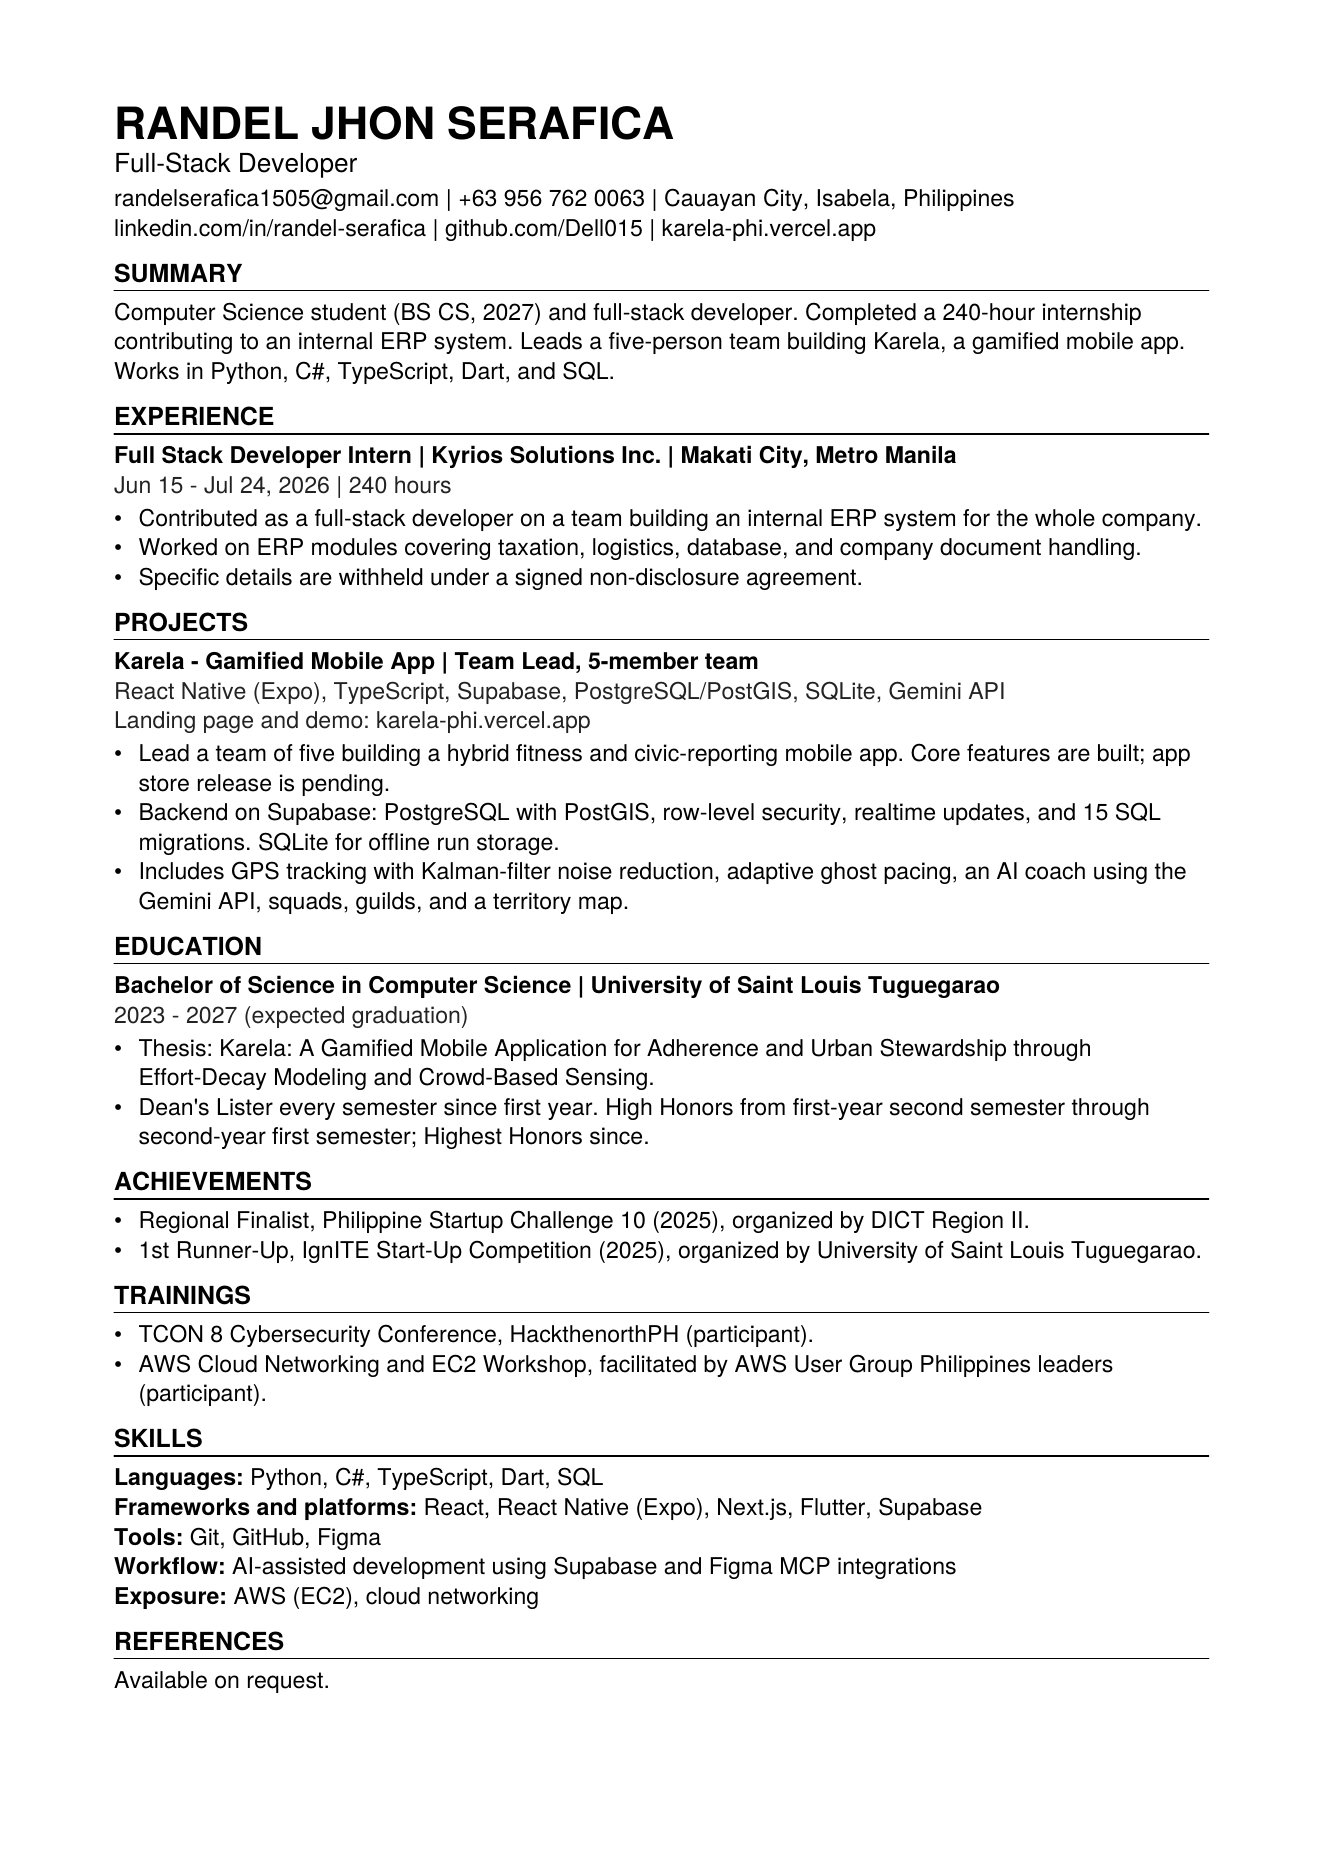
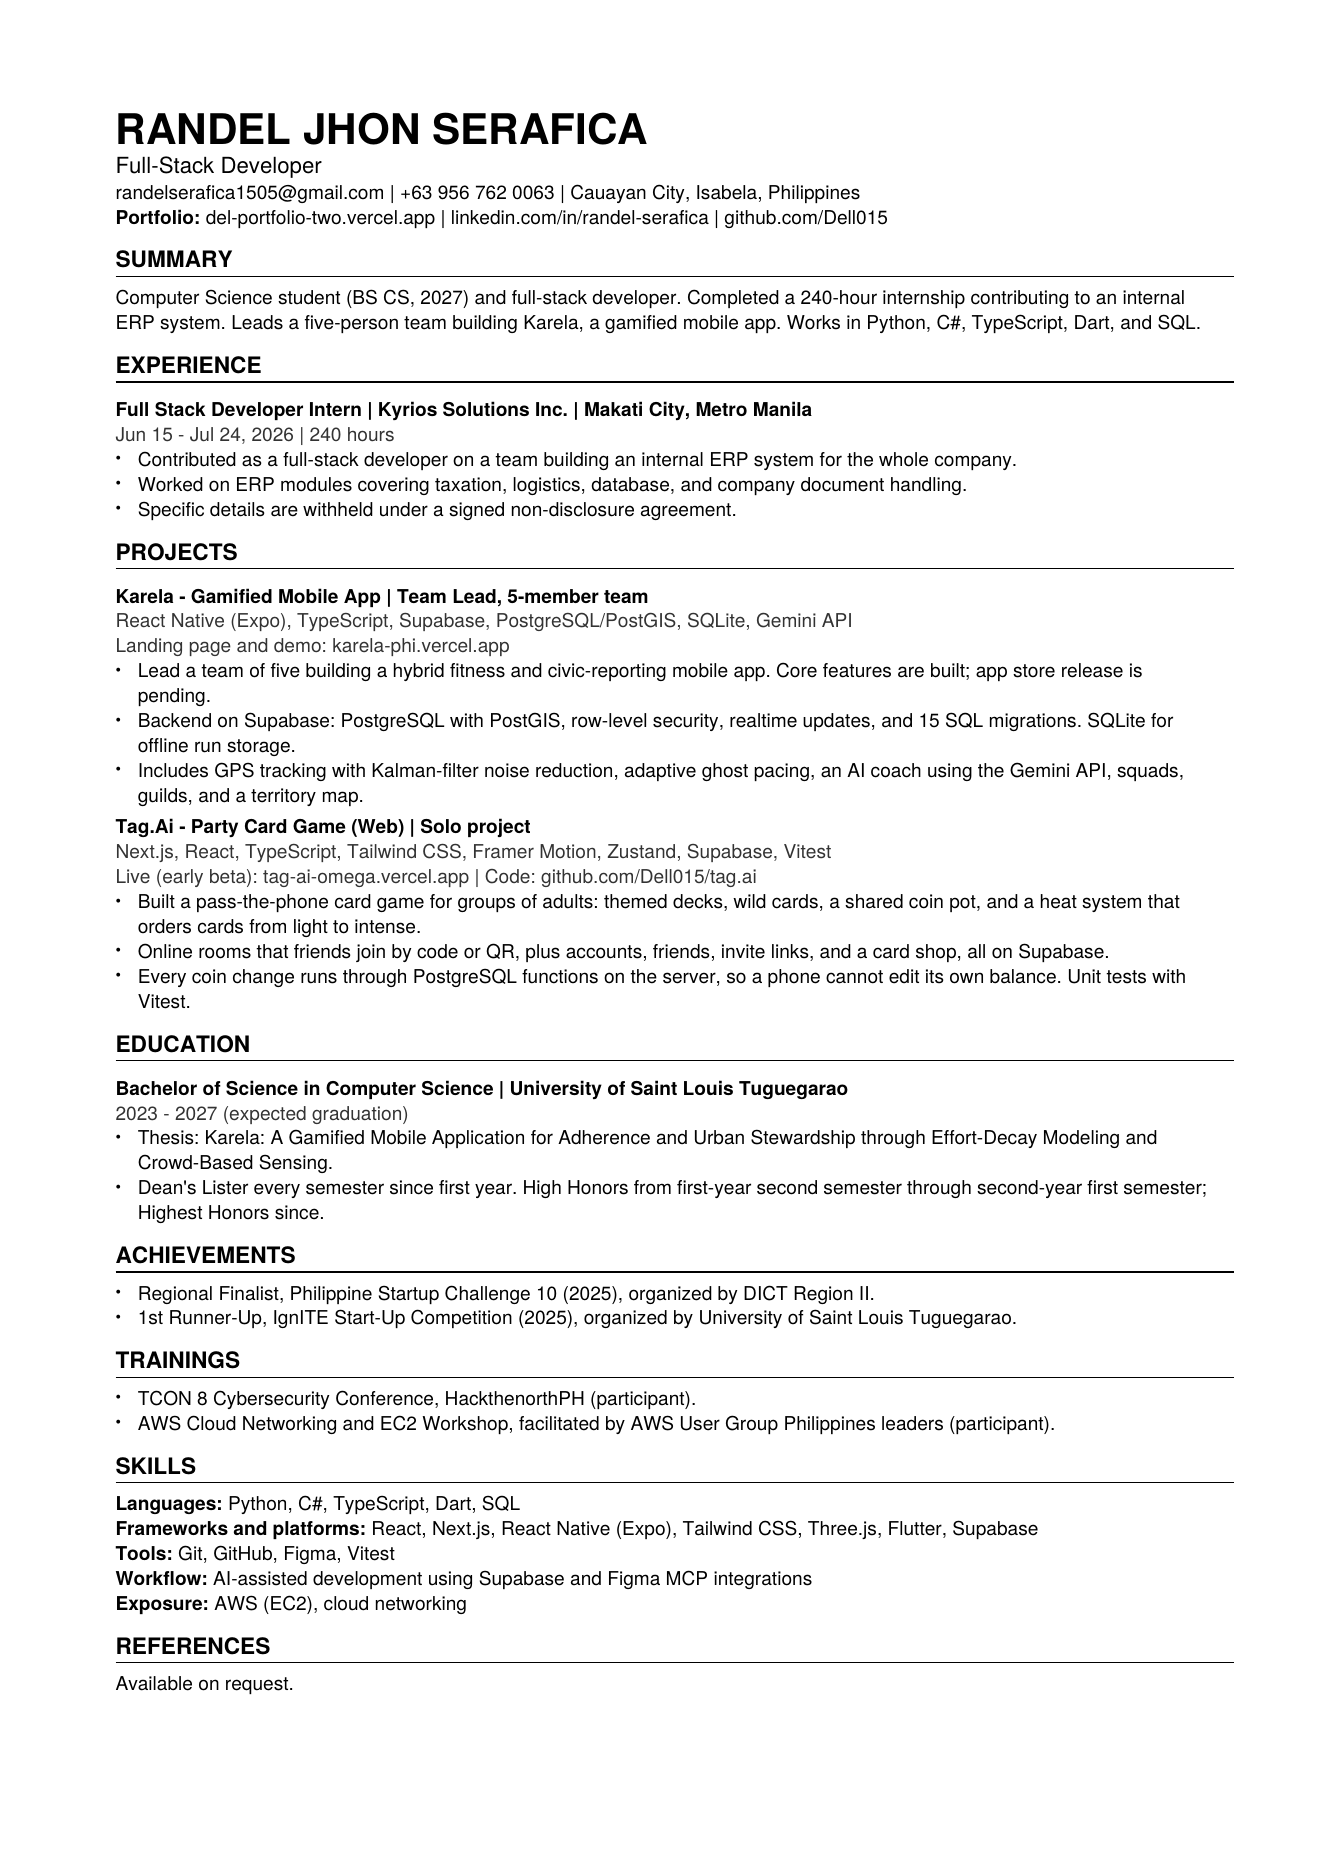
feat: update resume content and improve project descriptions; refine skills and experience details for clarity

Changed region(s): [[0.062, 0.031, 0.8987, 0.93]]

diff --git a/src/lib/content/skills.ts b/src/lib/content/skills.ts
@@ -12,49 +12,49 @@ export const skills: Skill[] = [
   // Languages
   { name: "TypeScript", category: "language", usageNote: "Main language across my web and mobile projects" },
   { name: "JavaScript", category: "language", usageNote: "Websites and landing pages" },
-  { name: "Python", category: "language", usageNote: "FastAPI back ends for Icarus and garahe" },
+  { name: "Python", category: "language", usageNote: "FastAPI back ends for side projects" },
   { name: "SQL", category: "language", usageNote: "PostgreSQL schemas, queries and database functions" },
   { name: "Dart", category: "language", usageNote: "Flutter apps for startup competitions" },
-  { name: "Rust", category: "language", usageNote: "Rhizome's disk scanner and cleanup engine" },
+  { name: "Rust", category: "language", usageNote: "A Windows disk-cleanup app I'm building" },
   { name: "C#", category: "language", usageNote: "School projects" },
 
   // Frontend & mobile
   { name: "React", category: "frontend", usageNote: "UI for almost every web project" },
-  { name: "Next.js", category: "frontend", usageNote: "Tag.Ai, Timeless Voices, Histhoria, this portfolio and client sites" },
-  { name: "Tailwind CSS", category: "frontend", usageNote: "Styling across Tag.Ai, garahe and this portfolio" },
+  { name: "Next.js", category: "frontend", usageNote: "Tag.Ai, this portfolio and client sites" },
+  { name: "Tailwind CSS", category: "frontend", usageNote: "Styling across Tag.Ai, this portfolio and client sites" },
   { name: "Framer Motion", category: "frontend", usageNote: "Animations in Tag.Ai and this portfolio" },
   { name: "Three.js / React Three Fiber", category: "frontend", usageNote: "This portfolio's particle scenes and solar system" },
   { name: "React Native + Expo", category: "frontend", usageNote: "Karela: maps, GPS tracking, offline storage, notifications" },
   { name: "Flutter", category: "frontend", usageNote: "Mobile apps for startup competitions" },
-  { name: "Angular", category: "frontend", usageNote: "Icarus front end" },
-  { name: "Tauri", category: "frontend", usageNote: "Rhizome's Windows desktop app" },
-  { name: "Web Audio API", category: "frontend", usageNote: "Gitara's tuner, metronome and chord listener" },
-  { name: "React Flow", category: "frontend", usageNote: "Histhoria's lore board" },
-  { name: "PWA & IndexedDB", category: "frontend", usageNote: "Gitara: installable and works offline" },
+  { name: "Angular", category: "frontend", usageNote: "An AI study tool I'm building" },
+  { name: "Tauri", category: "frontend", usageNote: "A Windows disk-cleanup app I'm building" },
+  { name: "Web Audio API", category: "frontend", usageNote: "A guitar practice app I'm building: tuner, metronome, chord listener" },
+  { name: "React Flow", category: "frontend", usageNote: "A story-mapping prototype" },
+  { name: "PWA & IndexedDB", category: "frontend", usageNote: "Installable, offline-ready web apps" },
 
   // Back end & data
-  { name: "Supabase", category: "backend", usageNote: "Auth, database, storage and realtime in Karela, Tag.Ai, Gitara and Icarus" },
+  { name: "Supabase", category: "backend", usageNote: "Auth, database, storage and realtime in Karela and Tag.Ai" },
   { name: "PostgreSQL", category: "backend", usageNote: "Main database across projects" },
   { name: "PostGIS", category: "backend", usageNote: "Location queries in Karela" },
-  { name: "FastAPI", category: "backend", usageNote: "Python APIs for Icarus and garahe" },
+  { name: "FastAPI", category: "backend", usageNote: "Python APIs for side projects" },
   { name: "SQLite", category: "backend", usageNote: "Offline storage on the phone in Karela" },
-  { name: "pgvector", category: "backend", usageNote: "Search over past sessions in Icarus" },
+  { name: "pgvector", category: "backend", usageNote: "Search over past sessions in an AI study tool" },
 
   // AI & APIs
-  { name: "Claude API", category: "ai", usageNote: "AI agents in Icarus" },
-  { name: "LangGraph", category: "ai", usageNote: "Multi-agent flow in Icarus" },
+  { name: "Claude API", category: "ai", usageNote: "AI agents in a study tool I'm building" },
+  { name: "LangGraph", category: "ai", usageNote: "Multi-agent flow in the same study tool" },
   { name: "Gemini API", category: "ai", usageNote: "AI coach in Karela" },
   { name: "REST APIs", category: "ai", usageNote: "Building them with FastAPI, using third-party ones like OpenWeatherMap" },
-  { name: "MCP", category: "ai", usageNote: "Read-only AI advisor server in Rhizome" },
+  { name: "MCP", category: "ai", usageNote: "A read-only AI advisor for a desktop app I'm building" },
 
   // Tools
   { name: "Git & GitHub", category: "tools", usageNote: "Every project" },
   { name: "Figma", category: "tools", usageNote: "UI design and prototypes before building" },
   { name: "Photoshop", category: "tools", usageNote: "Editing photos and graphics for sites and projects" },
   { name: "Vercel & Netlify", category: "tools", usageNote: "Deploying this portfolio, Tag.Ai and client sites" },
-  { name: "Vite", category: "tools", usageNote: "Builds for Gitara and Rhizome" },
-  { name: "Zustand", category: "tools", usageNote: "App state in Tag.Ai and Histhoria" },
-  { name: "Vitest", category: "tools", usageNote: "Tests in Tag.Ai, Gitara and Rhizome" },
+  { name: "Vite", category: "tools", usageNote: "Builds for side projects" },
+  { name: "Zustand", category: "tools", usageNote: "App state in Tag.Ai" },
+  { name: "Vitest", category: "tools", usageNote: "Tests in Tag.Ai and side projects" },
 ];
 
 export const skillCategories = [

diff --git a/src/lib/content/projects.ts b/src/lib/content/projects.ts
@@ -31,7 +31,7 @@ export interface Project {
   };
 }
 
-export const projects: Project[] = [
+const allProjects: Project[] = [
   {
     slug: "karela",
     name: "Karela",
@@ -101,20 +101,22 @@ export const projects: Project[] = [
     ],
     identityGradient: ["#C93B96", "#FF8FCF"],
     liveUrl: "https://tag-ai-omega.vercel.app",
+    repoUrl: "https://github.com/Dell015/tag.ai",
     liveLabel: "Early beta",
     caseStudy: {
       timeline: "In development, early beta",
       architectureNote:
-        "Playable on one phone with no account, or online: accounts, coins and rooms run on Supabase, and every coin change goes through server functions so a phone cannot edit its own balance. The heat engine steers card order so sessions start light and ramp up.",
+        "Accounts, coins and online rooms run on Supabase, and every coin change goes through server functions so a phone cannot edit its own balance. The heat engine steers card order so sessions start light and ramp up.",
       challenge:
         "Designing cards and rules that work across very different groups while keeping everyone comfortable. Topics can be left out before the game, anyone can skip, and the 18+ deck sits behind an age check. Balancing fun with respect is harder than the technical work.",
       nextSteps:
-        "More friends playing real games and fixing what they find, sign-in emails from its own address, automatic payments (today coins are added by hand after a QR payment), offline play and Filipino-language text.",
+        "More friends playing real games and fixing what they find, sign-in emails from its own address, automatic payments, offline play and Filipino-language text.",
     },
   },
   {
     slug: "rhizome",
     name: "Rhizome",
+    building: true,
     platform: "desktop",
     cardVariant: "desktop",
     pitch: "See where your disk space goes, which app owns which files, and what's actually safe to clean up.",
@@ -130,6 +132,7 @@ export const projects: Project[] = [
   {
     slug: "gitara",
     name: "Gitara",
+    building: true,
     platform: "web",
     cardVariant: "mobile",
     pitch: "A free, all-in-one jamming app for guitarists: your songbook, chord versions and practice tools in one place.",
@@ -145,6 +148,7 @@ export const projects: Project[] = [
   {
     slug: "timeless-voices",
     name: "Timeless Voices",
+    building: true,
     platform: "web",
     cardVariant: "desktop",
     pitch: "A booking site for a hand-picked roster of event hosts and voice talents.",
@@ -237,6 +241,7 @@ export const projects: Project[] = [
   {
     slug: "histhoria",
     name: "Histhoria",
+    building: true,
     platform: "web",
     cardVariant: "desktop",
     pitch: "A board where a game's lore can be traced line by line, with fan theories you can fork.",
@@ -250,6 +255,13 @@ export const projects: Project[] = [
     identityGradient: ["#7B61FF", "#B9A8FF"],
   },
 ];
+
+/**
+ * What the site shows. Projects marked `building` are kept here, with their planet
+ * parts in planets.ts, but stay off the site until they're ready: delete their
+ * `building: true` line to bring one back.
+ */
+export const projects = allProjects.filter((p) => !p.building);
 
 /** Projects with a full case study page. The rest show their details on the planet only. */
 const CASE_STUDIES = new Set(["karela", "tag-ai"]);

diff --git a/src/components/quicklook/QuickLook.tsx b/src/components/quicklook/QuickLook.tsx
@@ -27,7 +27,7 @@ const PLATFORM: Record<Project["platform"], string> = { mobile: "Mobile", web: "
 const ABOUT_LEAD = "I build web and mobile apps, front end to back end.";
 const ABOUT_P1 = "Mostly Next.js, React and Supabase on the web, and React Native or Flutter on mobile.";
 const ABOUT_P2 =
-  "I'm drawn to problems people quietly put up with, then to solving them in a way that isn't the obvious one. Usually the interesting angle is also the simpler one.";
+  "Most of my work so far is school projects, startup competition entries and websites for people near home. I usually do the design and the code myself.";
 
 const wrap = "mx-auto w-full max-w-6xl px-5 sm:px-8 lg:px-12";
 const mono = "font-[family-name:var(--font-mono)]";
@@ -143,8 +143,11 @@ function Hero({ play }: { play: boolean }) {
           <p className={`${mono} text-[11px] uppercase tracking-[0.18em] text-white/45`}>
             <Typed text={`${site.name} · Cauayan, Isabela`} from={0.08} to={0.15} who="a11y" />
           </p>
+          {/* The page's real heading for search engines, AI readers and screen readers: who this is.
+              The big question below is the visible intro. */}
+          <h1 className="sr-only">{site.name}, full-stack developer: web and mobile apps with Next.js, React, TypeScript and Supabase</h1>
           <Toggle
-            as="h1"
+            as="p"
             at={0.62}
             a="h1"
             className={`mt-5 ${display} text-[clamp(2.6rem,6.4vw,4.9rem)] font-bold leading-[1] tracking-[-0.035em] text-text data-[on=false]:font-[family-name:var(--font-serif)] data-[on=false]:font-normal data-[on=false]:tracking-normal`}
@@ -475,7 +478,7 @@ function Projects() {
           name="Projects"
           lead="Things I’ve "
           accent="built."
-          intro="Apps I've designed and built, from mobile and web to a Windows desktop app. Karela is closest to launch; the rest are in active development."
+          intro="Two apps I designed and built: a mobile fitness app and a party game for the web. More are on the way."
         />
         <div className="mt-12 grid gap-6 md:grid-cols-2">
           {projects.map((p, i) => (

diff --git a/src/components/hero/Hero.tsx b/src/components/hero/Hero.tsx
@@ -1,5 +1,6 @@
 "use client";
 
+import { site } from "@/lib/content/site";
 import { useState, useEffect, useCallback, useRef } from "react";
 import { motion, AnimatePresence, useReducedMotion } from "framer-motion";
 import { useModeStore } from "@/lib/store/mode";
@@ -219,14 +220,15 @@ export function Hero() {
               </motion.p>
 
               {/* Big cycling word, scales up from small with a bounce */}
-              <motion.h1
+              <h1 className="sr-only">{site.name}, full-stack developer: web and mobile apps with Next.js, React, TypeScript and Supabase</h1>
+              <motion.p
                 className="font-[family-name:var(--font-display)] text-[clamp(3.5rem,10vw,8rem)] font-bold leading-none tracking-tighter"
                 initial={{ opacity: 0, y: 24 }}
                 animate={{ opacity: 1, y: 0 }}
                 transition={{ duration: 0.9, delay: 0.7, ease: [0.22, 1, 0.36, 1] }}
               >
                 <CyclingText />
-              </motion.h1>
+              </motion.p>
 
               {/* Subtext, fades in with a letter-spacing tightening effect */}
               <motion.p

diff --git a/src/lib/content/planets.ts b/src/lib/content/planets.ts
@@ -68,7 +68,7 @@ export const projectParts: Record<string, ProjectPart[]> = {
     {
       name: "The table",
       summary:
-        "One phone passed around the table: themed decks, wild cards and dares. Playable with no account at all.",
+        "One phone passed around the table: themed decks, wild cards and dares.",
       tech: ["Next.js", "React", "Framer Motion", "Zustand"],
       stage: "Working",
     },
@@ -94,11 +94,9 @@ export const projectParts: Record<string, ProjectPart[]> = {
       stage: "Working",
     },
     {
-      name: "Payments and invites",
-      summary:
-        "Coins are bought with a QR payment and added by hand for now. Inviting friends earns coins for both of you.",
-      tech: ["Supabase", "Admin tools"],
-      stage: "Manual for now",
+      name: "Invites",
+      summary: "Invite links bring friends into the game, and both of you get coins for it.",
+      tech: ["Supabase"],
     },
     {
       name: "Safety rules",

diff --git a/src/components/mode/ModeGate.tsx b/src/components/mode/ModeGate.tsx
@@ -160,7 +160,7 @@ function Gate({ onChoose }: { onChoose: (m: Mode) => void }) {
           animate={{ opacity: 1, y: 0 }}
           transition={{ duration: 0.7, delay: 0.15, ease: [0.22, 1, 0.36, 1] }}
         >
-          {site.name} · Portfolio
+          {site.name} · Full-stack developer
         </motion.p>
 
         <motion.h1
@@ -179,7 +179,7 @@ function Gate({ onChoose }: { onChoose: (m: Mode) => void }) {
           animate={{ opacity: 1, y: 0 }}
           transition={{ duration: 0.8, delay: 0.4, ease: [0.22, 1, 0.36, 1] }}
         >
-          Same person, same work. Pick how you want to meet it. You can change this from the footer.
+          Same work either way. The quick version takes about a minute. You can switch later from the footer.
         </motion.p>
 
         <div className="mt-10 grid gap-3 text-left sm:grid-cols-2">

diff --git a/src/components/hero/HeroStatic.tsx b/src/components/hero/HeroStatic.tsx
@@ -59,12 +59,13 @@ export function HeroStatic() {
             {site.name} · Cauayan, Isabela
           </p>
 
-          <h1
+          <h1 className="sr-only">{site.name}, full-stack developer: web and mobile apps with Next.js, React, TypeScript and Supabase</h1>
+          <p
             className="hero-rise mt-5 font-[family-name:var(--font-display)] text-4xl font-bold leading-[1.06] tracking-tight sm:text-5xl lg:text-6xl"
             style={{ "--d": "0.25s" } as React.CSSProperties}
           >
             {site.heroQuestion}
-          </h1>
+          </p>
 
           <p
             className="hero-rise mx-auto mt-6 max-w-xl text-lg leading-relaxed text-text-muted lg:mx-0"

diff --git a/src/lib/content/site.ts b/src/lib/content/site.ts
@@ -62,12 +62,12 @@ export const resume = {
         lines: ["Full Stack Developer Intern", "Internal ERP system · 240 hours · 2026"],
       },
       {
-        label: "Project",
-        lines: ["Karela · Team Lead, 5 members", "React Native · Supabase · Gemini API"],
+        label: "Projects",
+        lines: ["Karela · Team Lead, 5 members", "Tag.Ai · Next.js web game, solo"],
       },
       {
         label: "Education",
-        lines: ["BS Computer Science · USLT", "2023 to 2027 · Highest Honors"],
+        lines: ["BS Computer Science · USLT", "2023 to 2027 · Dean's Lister"],
       },
       {
         label: "Achievements",

diff --git a/src/components/about/About.tsx b/src/components/about/About.tsx
@@ -82,7 +82,7 @@ const LEAD: { t: string; red?: boolean }[] = [
 ];
 const LINE = "Mostly Next.js, React and Supabase on the web, and React Native or Flutter on mobile.";
 const HOW =
-  "I'm drawn to problems people quietly put up with, then to solving them in a way that isn't the obvious one. Usually the interesting angle is also the simpler one.";
+  "Most of my work so far is school projects, startup competition entries and websites for people near home. I usually do the design and the code myself.";
 
 /** Words of the headline with the position each one lights up at (0..1 along the headline). */
 const LEAD_WORDS = (() => {

diff --git a/src/components/projects/ProjectGrid.tsx b/src/components/projects/ProjectGrid.tsx
@@ -41,8 +41,8 @@ export function ProjectGrid() {
 
         <Reveal className="-mt-6 mb-6 max-w-2xl text-lg leading-relaxed text-text-muted md:-mt-8">
           <p>
-            Apps I&apos;ve designed and built, from mobile and web to a Windows desktop app.
-            Karela is closest to launch; the rest are in active development.
+            Two apps I designed and built: a mobile fitness app and a party game for the web.
+            More are on the way.
           </p>
         </Reveal>
 

diff --git a/src/components/projects/tagai/TagAiCaseStudy.tsx b/src/components/projects/tagai/TagAiCaseStudy.tsx
@@ -140,7 +140,7 @@ const BUILT = [
 ];
 const TODO = [
   "More friends playing real games, then fixing what breaks",
-  "Paying by QR works, but coins are added by hand. Automatic payments come later",
+  "Automatic payments",
   "Sign-in emails sent from our own address",
   "True offline play",
   "Filipino-language text",
